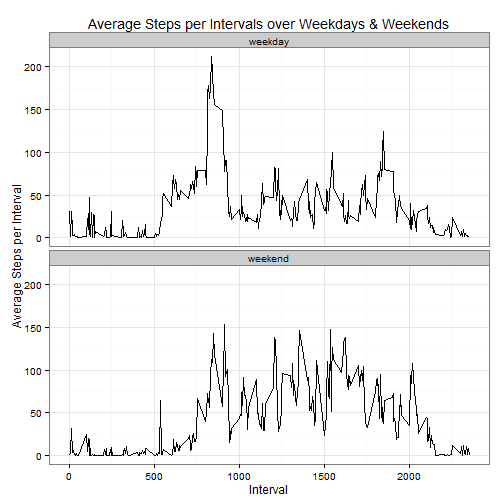
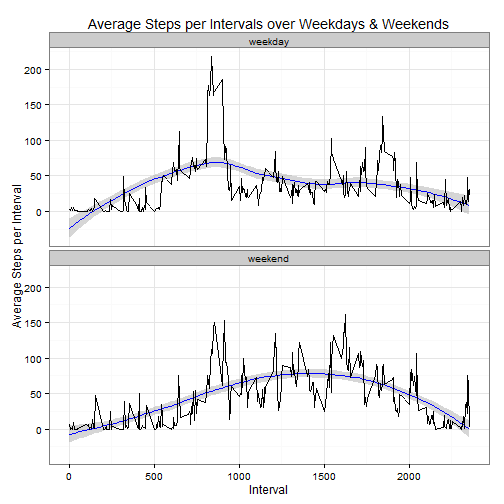
Commit 16: Final Touchups.

diff --git a/PA1_template.html b/PA1_template.html
@@ -250,7 +250,11 @@ str(data)
 ##  $ interval: int  0 5 10 15 20 25 30 35 40 45 ...
 </code></pre>
 
-<p>There was no transformation of the data needed. The data is stored in a dataframe called &#39;data&#39;. The dataframe consist of 17,568 observations of 3 variables: &#39;steps&#39;, &#39;date&#39;, &#39;interval&#39;.</p>
+<pre><code class="r">row1&lt;-nrow(data)
+column1&lt;-ncol(data)
+</code></pre>
+
+<p>There was no pre-processing of the data needed. The data is stored in a dataframe called &#39;data&#39;. The dataframe consist of 17568 observations of 3 variables: &#39;steps&#39;, &#39;date&#39;, &#39;interval&#39;.</p>
 
 <h2>What is mean total number of steps taken per day?</h2>
 
@@ -264,6 +268,10 @@ str(steps.per.day)
 <pre><code>## &#39;data.frame&#39;:    61 obs. of  2 variables:
 ##  $ date : Factor w/ 61 levels &quot;2012-10-01&quot;,&quot;2012-10-02&quot;,..: 1 2 3 4 5 6 7 8 9 10 ...
 ##  $ total: int  0 126 11352 12116 13294 15420 11015 0 12811 9900 ...
+</code></pre>
+
+<pre><code class="r">row2&lt;- nrow(steps.per.day)
+column2&lt;- ncol(steps.per.day) 
 </code></pre>
 
 <p>&#39;steps.per.day&#39; is a dataframe of 61 observations in 2 variables: &#39;date&#39; and &#39;total&#39;.</p>
@@ -300,6 +308,10 @@ str(avg.steps.per.interval)
 <pre><code>## &#39;data.frame&#39;:    288 obs. of  2 variables:
 ##  $ interval : int  0 5 10 15 20 25 30 35 40 45 ...
 ##  $ avg.steps: num  1.717 0.3396 0.1321 0.1509 0.0755 ...
+</code></pre>
+
+<pre><code class="r">row3 &lt;- nrow(avg.steps.per.interval)
+column3 &lt;- ncol(avg.steps.per.interval)
 </code></pre>
 
 <p>The resulting dataframe has 288 observations in 2 variables: &#39;interval&#39; and &#39;avg.steps&#39;.</p>
@@ -381,7 +393,7 @@ str(imputed.steps.per.day)
 
 <pre><code>## &#39;data.frame&#39;:    61 obs. of  2 variables:
 ##  $ date       : Date, format: &quot;2012-10-01&quot; &quot;2012-10-02&quot; ...
-##  $ total.steps: int  14505 126 11352 12116 13294 15420 11015 13007 12811 9900 ...
+##  $ total.steps: int  13264 126 11352 12116 13294 15420 11015 11351 12811 9900 ...
 </code></pre>
 
 <p>We can then create a barplot of the data.</p>
@@ -391,7 +403,7 @@ par(ps=10, mar=c(3.1,2.1,6.1,2.1), fg=&quot;blue4&quot;,col.lab=&quot;violetred4
 g&lt;-barplot(imputed.steps.per.day$total,main=&quot;Total Steps per Day&quot;, xlab=&quot;Day&quot;, ylab=&quot;Total Steps&quot;, names.arg=imputed.steps.per.day$date)
 </code></pre>
 
[2 lines of base64/hex data omitted]
 
 <pre><code class="r">print(g)
 </code></pre>
@@ -466,8 +478,8 @@ g&lt;-barplot(imputed.steps.per.day$total,main=&quot;Total Steps per Day&quot;, 
 imputed.daily.median &lt;- median(imputed.steps.per.day$total)
 </code></pre>
 
-<p>The imputed daily mean steps is 10932.87 compared to the original mean steps of 9354.23. 
-The daily median steps is 11162 compared to the original median steps of 10395. .</p>
+<p>The imputed daily mean steps is 11104.62 compared to the original mean steps of 9354.23. 
+The daily median steps is 11351 compared to the original median steps of 10395. .</p>
 
 <p>Thus we can see that both the imputed mean and median are higher than before the data was imputed. This is to be expected since we are extrapolating and filling in the empty spaces with simulated, likely some are non-zero, data.</p>
 
@@ -485,20 +497,24 @@ str(imputed.steps.per.interval)
 <pre><code>## &#39;data.frame&#39;:    576 obs. of  3 variables:
 ##  $ interval : int  0 0 5 5 10 10 15 15 20 20 ...
 ##  $ day.type : Factor w/ 2 levels &quot;weekday&quot;,&quot;weekend&quot;: 1 2 1 2 1 2 1 2 1 2 ...
-##  $ avg.steps: num  30.67 0 1.47 3 31.29 ...
+##  $ avg.steps: num  2.02 7.12 1.73 0 4.71 ...
 </code></pre>
 
 <p>The above creates a dataframe from the imputed data and consist of 3 observations: &#39;interval&#39;, day.type&#39; and &#39;avg.steps&#39;.</p>
 
 <p>A panel plot of the data can be obtained through the following.</p>
 
-<pre><code class="r">g&lt;-ggplot (imputed.steps.per.interval, aes(x=interval, y=avg.steps)) + geom_line() +theme_bw() +facet_wrap(~day.type, ncol=1) +labs(x=&quot;Interval&quot;, y=&quot;Average Steps per Interval&quot;, title=&quot;Average Steps per Intervals over Weekdays &amp; Weekends&quot; )
+<pre><code class="r">g&lt;-ggplot (imputed.steps.per.interval, aes(x=interval, y=avg.steps)) +stat_smooth(color=&#39;blue&#39;) +geom_line() +theme_bw() +facet_wrap(~day.type, ncol=1) +labs(x=&quot;Interval&quot;, y=&quot;Average Steps per Interval&quot;, title=&quot;Average Steps per Intervals over Weekdays &amp; Weekends&quot; )
 print(g)
 </code></pre>
 
[1 lines of base64/hex data omitted]
+<pre><code>## geom_smooth: method=&quot;auto&quot; and size of largest group is &lt;1000, so using loess. Use &#39;method = x&#39; to change the smoothing method.
+## geom_smooth: method=&quot;auto&quot; and size of largest group is &lt;1000, so using loess. Use &#39;method = x&#39; to change the smoothing method.
+</code></pre>
 
-<p>From the graphs above, there is no significant difference in pattern between the average steps over intervals between weekdays and weekends. </p>
[1 lines of base64/hex data omitted]
+
+<p>From the graphs above, we can see that between the 1000 to 2000 5-minute intervals, the average steps are higher than on weekdays. For the rest of the intervals, there is no significant difference in pattern between the average steps over intervals between weekdays and weekends. </p>
 
 </body>
 

diff --git a/PA1_template.md b/PA1_template.md
@@ -57,7 +57,12 @@ str(data)
 ##  $ date    : Factor w/ 61 levels "2012-10-01","2012-10-02",..: 1 1 1 1 1 1 1 1 1 1 ...
 ##  $ interval: int  0 5 10 15 20 25 30 35 40 45 ...
 ```
-There was no transformation of the data needed. The data is stored in a dataframe called 'data'. The dataframe consist of 17,568 observations of 3 variables: 'steps', 'date', 'interval'.
+
+```r
+row1<-nrow(data)
+column1<-ncol(data)
+```
+There was no pre-processing of the data needed. The data is stored in a dataframe called 'data'. The dataframe consist of 17568 observations of 3 variables: 'steps', 'date', 'interval'.
 
 ## What is mean total number of steps taken per day?
 
@@ -74,6 +79,11 @@ str(steps.per.day)
 ## 'data.frame':	61 obs. of  2 variables:
 ##  $ date : Factor w/ 61 levels "2012-10-01","2012-10-02",..: 1 2 3 4 5 6 7 8 9 10 ...
 ##  $ total: int  0 126 11352 12116 13294 15420 11015 0 12811 9900 ...
+```
+
+```r
+row2<- nrow(steps.per.day)
+column2<- ncol(steps.per.day) 
 ```
 
 'steps.per.day' is a dataframe of 61 observations in 2 variables: 'date' and 'total'.
@@ -117,6 +127,11 @@ str(avg.steps.per.interval)
 ## 'data.frame':	288 obs. of  2 variables:
 ##  $ interval : int  0 5 10 15 20 25 30 35 40 45 ...
 ##  $ avg.steps: num  1.717 0.3396 0.1321 0.1509 0.0755 ...
+```
+
+```r
+row3 <- nrow(avg.steps.per.interval)
+column3 <- ncol(avg.steps.per.interval)
 ```
 
 The resulting dataframe has 288 observations in 2 variables: 'interval' and 'avg.steps'.
@@ -211,7 +226,7 @@ str(imputed.steps.per.day)
 ```
 ## 'data.frame':	61 obs. of  2 variables:
 ##  $ date       : Date, format: "2012-10-01" "2012-10-02" ...
-##  $ total.steps: int  14505 126 11352 12116 13294 15420 11015 13007 12811 9900 ...
+##  $ total.steps: int  13264 126 11352 12116 13294 15420 11015 11351 12811 9900 ...
 ```
 
 We can then create a barplot of the data.
@@ -302,8 +317,8 @@ imputed.daily.mean <- mean(imputed.steps.per.day$total)
 imputed.daily.median <- median(imputed.steps.per.day$total)
 ```
 
-The imputed daily mean steps is 10932.87 compared to the original mean steps of 9354.23. 
-The daily median steps is 11162 compared to the original median steps of 10395. .
+The imputed daily mean steps is 11104.62 compared to the original mean steps of 9354.23. 
+The daily median steps is 11351 compared to the original median steps of 10395. .
 
 Thus we can see that both the imputed mean and median are higher than before the data was imputed. This is to be expected since we are extrapolating and filling in the empty spaces with simulated, likely some are non-zero, data.
 
@@ -325,7 +340,7 @@ str(imputed.steps.per.interval)
 ## 'data.frame':	576 obs. of  3 variables:
 ##  $ interval : int  0 0 5 5 10 10 15 15 20 20 ...
 ##  $ day.type : Factor w/ 2 levels "weekday","weekend": 1 2 1 2 1 2 1 2 1 2 ...
-##  $ avg.steps: num  30.67 0 1.47 3 31.29 ...
+##  $ avg.steps: num  2.02 7.12 1.73 0 4.71 ...
 ```
 
 The above creates a dataframe from the imputed data and consist of 3 observations: 'interval', day.type' and 'avg.steps'.
@@ -334,12 +349,17 @@ A panel plot of the data can be obtained through the following.
 
 
 ```r
-g<-ggplot (imputed.steps.per.interval, aes(x=interval, y=avg.steps)) + geom_line() +theme_bw() +facet_wrap(~day.type, ncol=1) +labs(x="Interval", y="Average Steps per Interval", title="Average Steps per Intervals over Weekdays & Weekends" )
+g<-ggplot (imputed.steps.per.interval, aes(x=interval, y=avg.steps)) +stat_smooth(color='blue') +geom_line() +theme_bw() +facet_wrap(~day.type, ncol=1) +labs(x="Interval", y="Average Steps per Interval", title="Average Steps per Intervals over Weekdays & Weekends" )
 print(g)
+```
+
+```
+## geom_smooth: method="auto" and size of largest group is <1000, so using loess. Use 'method = x' to change the smoothing method.
+## geom_smooth: method="auto" and size of largest group is <1000, so using loess. Use 'method = x' to change the smoothing method.
 ```
 
 ![plot of chunk graph 4](figure/graph 4-1.png) 
 
-From the graphs above, there is no significant difference in pattern between the average steps over intervals between weekdays and weekends. 
+From the graphs above, we can see that between the 1000 to 2000 5-minute intervals, the average steps are higher than on weekdays. For the rest of the intervals, there is no significant difference in pattern between the average steps over intervals between weekdays and weekends. 
 
 
